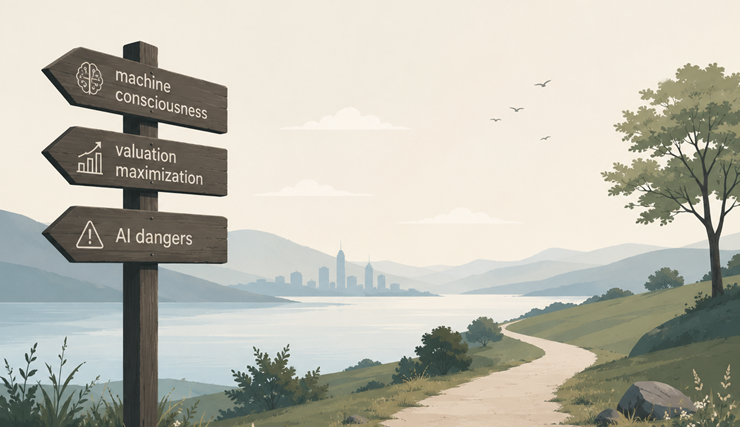
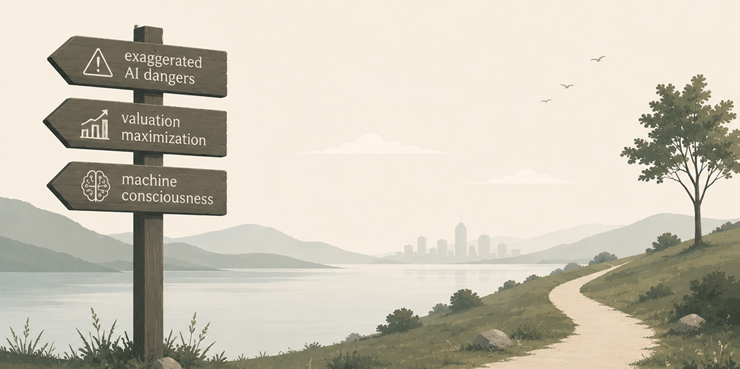
edited images, updated modify date

diff --git a/_posts/2026-08-06-AI-hype-IPO-times.md b/_posts/2026-08-06-AI-hype-IPO-times.md
@@ -2,7 +2,7 @@
 title: AI hacks, breakouts, consciousness, and the sound of hype at IPO times
 layout: post
 date: 2026-08-06
-modified: 2026-08-07
+modified: 2026-08-09
 category: AI, society, hype, business models, worldview, narrative
 comments: true
 ---
